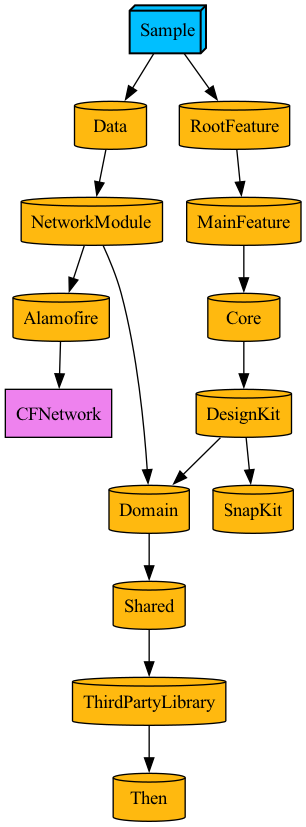
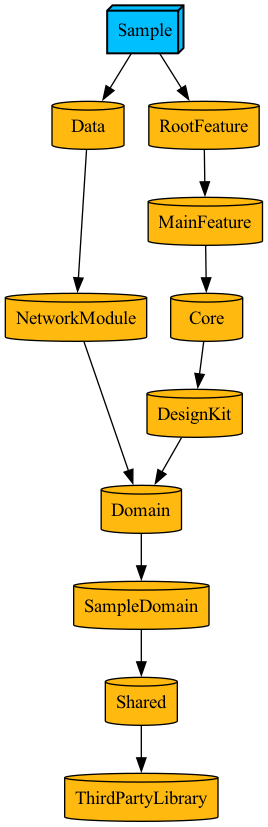
feat. 도메인 분리 및 폴더링

Changed region(s): [[0.0, 0.0, 1.0, 0.9976], [0.8657, 0.3325, 0.9254, 0.4232]]

diff --git a/Sample/Tuist/ProjectDescriptionHelpers/Template/Project+Template.swift b/Sample/Tuist/ProjectDescriptionHelpers/Template/Project+Template.swift
@@ -48,7 +48,7 @@ extension Project {
                 targets: targets,
                 schemes: schemes
             )
-        case let .feature(name: name):
+        case let .feature(name, type):
             let featureTargetName = "\(name)Feature"
             
             let featureTarget = Target.target(
@@ -87,6 +87,44 @@ extension Project {
                 schemes: schemes
             )
         case let .module(name):
+            let moduleTarget = Target.target(
+                name: name,
+                destinations: configuration.destination,
+                product: product,
+                bundleId: "\(configuration.bundleIdentifier).\(name.lowercased())",
+                deploymentTargets: configuration.deploymentTarget,
+                sources: ["Sources/**"],
+                resources: hasResources ? ["Resources/**"] : [],
+                dependencies: dependencies
+            )
+            targets.append(moduleTarget)
+            
+            let testTargetName = "\(name)Tests"
+            let testTarget = Target.target(
+                name: testTargetName,
+                destinations: configuration.destination,
+                product: .unitTests,
+                bundleId: "\(configuration.bundleIdentifier).\(name.lowercased()).test",
+                deploymentTargets: configuration.deploymentTarget,
+                sources: ["Tests/Sources/**"],
+                dependencies: [.target(name: name)]
+            )
+            targets.append(testTarget)
+            
+            let moduleScheme = Scheme.configureScheme(
+                schemeName: name
+            )
+            
+            schemes.append(moduleScheme)
+            
+            return Project(
+                name: name,
+                organizationName: configuration.organizationName,
+                settings: configuration.commonSettings,
+                targets: targets,
+                schemes: schemes
+            )
+        case let .domain(name):
             let moduleTarget = Target.target(
                 name: name,
                 destinations: configuration.destination,

diff --git a/Sample/Tuist/ProjectDescriptionHelpers/Extension/Dependency+Project.swift b/Sample/Tuist/ProjectDescriptionHelpers/Extension/Dependency+Project.swift
@@ -8,11 +8,6 @@
 import ProjectDescription
 
 public extension TargetDependency {
-    struct Features {
-        public struct Root {}
-        public struct Main {}
-    }
-    
     struct Modules {}
     struct Core {}
 }
@@ -29,25 +24,4 @@ public extension TargetDependency.Modules {
 public extension TargetDependency.Core {
     static let designKit = TargetDependency.project(target: "DesignKit", path: .relativeToCore("DesignKit"))
     static let core = TargetDependency.project(target: "Core", path: .relativeToCore("Core"))
-}
-
-public extension TargetDependency.Features {
-    static func project(name: String) -> TargetDependency {
-        return .project(target: name, path: .relativeToFeature(name))
-    }
-}
-
-// MARK: - Features
-public extension TargetDependency.Features.Root {
-    static let name = "Root"
-    
-    static let Feature = TargetDependency.Features.project(name: "\(name)Feature")
-    static let Interface = TargetDependency.project(target: "\(name)FeatureInterface", path: .relativeToFeature("\(name)Feature"))
-}
-
-public extension TargetDependency.Features.Main {
-    static let name = "Main"
-    
-    static let Feature = TargetDependency.Features.project(name: "\(name)Feature")
-    static let Interface = TargetDependency.project(target: "\(name)FeatureInterface", path: .relativeToFeature("\(name)Feature"))
 }

diff --git a/Sample/Tuist/ProjectDescriptionHelpers/Extension/Dependency+Feature.swift b/Sample/Tuist/ProjectDescriptionHelpers/Extension/Dependency+Feature.swift
@@ -1,0 +1,35 @@
+//
+//  Dependency+Feature.swift
+//  Config
+//
+//  Created by Junyoung Lee on 1/21/25.
+//
+
+import ProjectDescription
+
+public extension TargetDependency {
+    struct Features {
+        public struct Root {}
+        public struct Main {}
+    }
+}
+
+public extension TargetDependency.Features {
+    static func project(name: String) -> TargetDependency {
+        return .project(target: name, path: .relativeToFeature(name))
+    }
+}
+
+public extension TargetDependency.Features.Root {
+    static let name = "Root"
+    
+    static let Feature = TargetDependency.Features.project(name: "\(name)Feature")
+    static let Interface = TargetDependency.project(target: "\(name)FeatureInterface", path: .relativeToFeature("\(name)Feature"))
+}
+
+public extension TargetDependency.Features.Main {
+    static let name = "Main"
+    
+    static let Feature = TargetDependency.Features.project(name: "\(name)Feature")
+    static let Interface = TargetDependency.project(target: "\(name)FeatureInterface", path: .relativeToFeature("\(name)Feature"))
+}

diff --git a/Sample/Tuist/ProjectDescriptionHelpers/Extension/Path+.swift b/Sample/Tuist/ProjectDescriptionHelpers/Extension/Path+.swift
@@ -12,6 +12,10 @@ public extension ProjectDescription.Path {
         return .relativeToRoot("Projects/Features/\(path)")
     }
     
+    static func relativeToDomain(_ path: String) -> Self {
+        return .relativeToRoot("Projects/Domains/\(path)")
+    }
+    
     static func relativeToModule(_ path: String) -> Self {
         return .relativeToRoot("Projects/Modules/\(path)")
     }
@@ -21,11 +25,11 @@ public extension ProjectDescription.Path {
     }
     
     static var data: Self {
-        return .relativeToRoot("Projects/Data")
+        return .relativeToRoot("Projects/Data/Data")
     }
     
     static var domain: Self {
-        return .relativeToRoot("Projects/Domain")
+        return .relativeToRoot("Projects/Domains/Domain")
     }
     
     static var shared: Self {

diff --git a/Sample/Tuist/ProjectDescriptionHelpers/Extension/Dependency+Domain.swift b/Sample/Tuist/ProjectDescriptionHelpers/Extension/Dependency+Domain.swift
@@ -1,0 +1,26 @@
+//
+//  Dependency+Domain.swift
+//  Config
+//
+//  Created by Junyoung Lee on 1/21/25.
+//
+
+import ProjectDescription
+
+public extension TargetDependency {
+    struct Domains {
+        public struct Sample {}
+    }
+}
+
+public extension TargetDependency.Domains {
+    static func project(name: String) -> TargetDependency {
+        return .project(target: name, path: .relativeToDomain(name))
+    }
+}
+
+public extension TargetDependency.Domains.Sample {
+    static let name = "Sample"
+    
+    static let Domain = TargetDependency.Domains.project(name: "\(name)Domain")
+}

diff --git a/Sample/Projects/Domains/Domain/Project.swift b/Sample/Projects/Domains/Domain/Project.swift
@@ -1,6 +1,6 @@
 //
 //  Project.swift
-//  ProjectDescriptionHelpers
+//  Config
 //
 //  Created by Junyoung Lee on 1/9/25.
 //
@@ -9,9 +9,9 @@ import ProjectDescription
 import ProjectDescriptionHelpers
 
 let project = Project.configure(
-    moduleType: .feature(name: "Main", type: .micro),
+    moduleType: .domain(name: "Domain"),
     product: .framework,
     dependencies: [
-        .Core.core
+        .Domains.Sample.Domain
     ]
 )

diff --git a/Sample/Projects/Domains/SampleDomain/Project.swift b/Sample/Projects/Domains/SampleDomain/Project.swift
@@ -2,14 +2,16 @@
 //  Project.swift
 //  Config
 //
-//  Created by Junyoung Lee on 1/9/25.
+//  Created by Junyoung Lee on 1/21/25.
 //
+
+import Foundation
 
 import ProjectDescription
 import ProjectDescriptionHelpers
 
 let project = Project.configure(
-    moduleType: .module(name: "Domain"),
+    moduleType: .domain(name: "SampleDomain"),
     product: .framework,
     dependencies: [
         .Modules.shared

diff --git a/Sample/Tuist/ProjectDescriptionHelpers/Template/ModuleType.swift b/Sample/Tuist/ProjectDescriptionHelpers/Template/ModuleType.swift
@@ -7,8 +7,14 @@
 
 import Foundation
 
+public enum FeatureType {
+    case standard
+    case micro
+}
+
 public enum ModuleType {
     case app
-    case feature(name: String)
+    case feature(name: String, type: FeatureType)
     case module(name: String)
+    case domain(name: String)
 }

diff --git a/Sample/Projects/Features/RootFeature/Project.swift b/Sample/Projects/Features/RootFeature/Project.swift
@@ -11,7 +11,7 @@ import ProjectDescription
 import ProjectDescriptionHelpers
 
 let project = Project.configure(
-    moduleType: .feature(name: "Root"),
+    moduleType: .feature(name: "Root", type: .standard),
     product: .framework,
     dependencies: [
         .Features.Main.Feature

diff --git a/Sample/Projects/Domains/Domain/Tests/Sources/TestProject.swift b/Sample/Projects/Domains/Domain/Tests/Sources/TestProject.swift
@@ -1,0 +1,17 @@
+//
+//  TestProject.swift
+//  TestProject
+//
+//  Created by Junyoung on 1/8/25.
+//
+
+import SwiftUI
+
+@main
+struct TestProject: App {
+    var body: some Scene {
+        WindowGroup {
+            Text("hi")
+        }
+    }
+}

diff --git a/Sample/Projects/Domains/SampleDomain/Tests/Sources/TestProject.swift b/Sample/Projects/Domains/SampleDomain/Tests/Sources/TestProject.swift
@@ -1,0 +1,17 @@
+//
+//  TestProject.swift
+//  TestProject
+//
+//  Created by Junyoung on 1/8/25.
+//
+
+import SwiftUI
+
+@main
+struct TestProject: App {
+    var body: some Scene {
+        WindowGroup {
+            Text("hi")
+        }
+    }
+}
